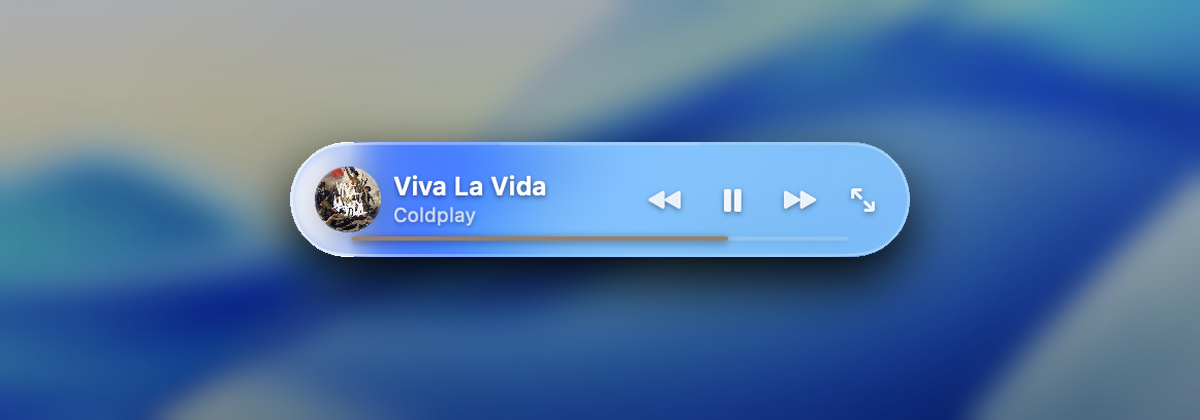
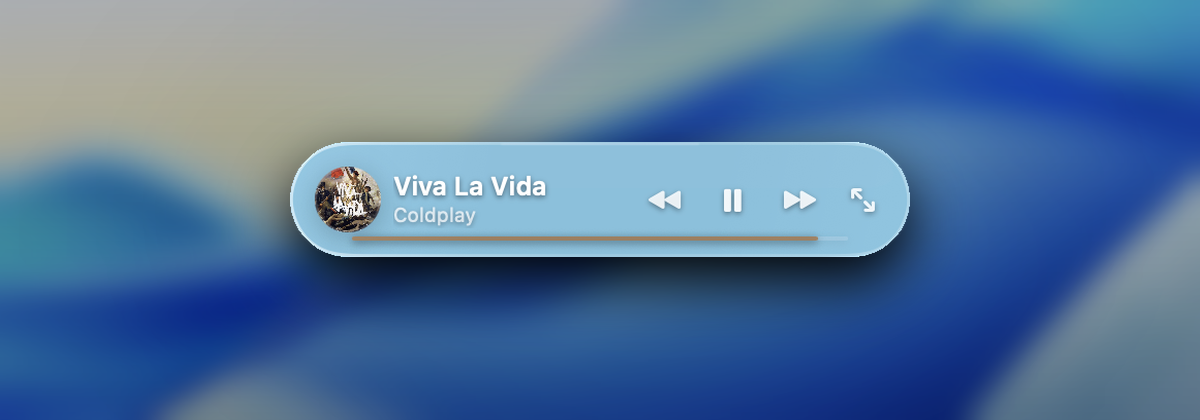
Refresh mini and menu bar screenshots

Changed region(s): [[0.2467, 0.3405, 0.7708, 0.619]]

diff --git a/README.md b/README.md
@@ -61,6 +61,11 @@
 </p>
 
 <p align="center">
+  <b>菜单栏歌词</b><br><br>
+  <img src="docs/ui-menubar.png" alt="菜单栏歌词" width="100%">
+</p>
+
+<p align="center">
   <b>迷你长条模式</b><br><br>
   <img src="docs/ui-mini.png" alt="迷你长条模式" width="72%">
 </p>
